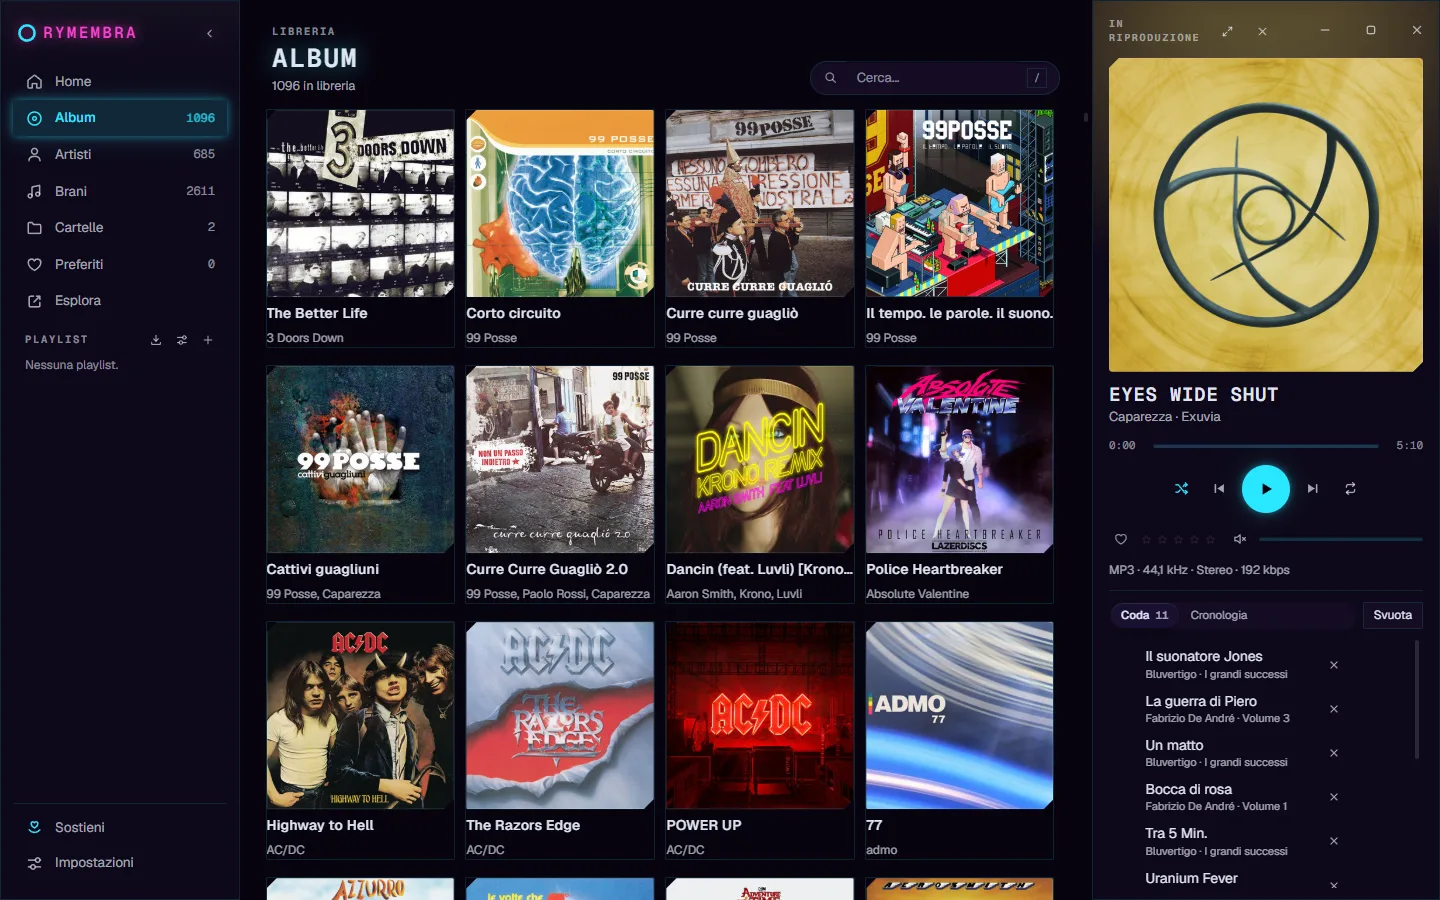
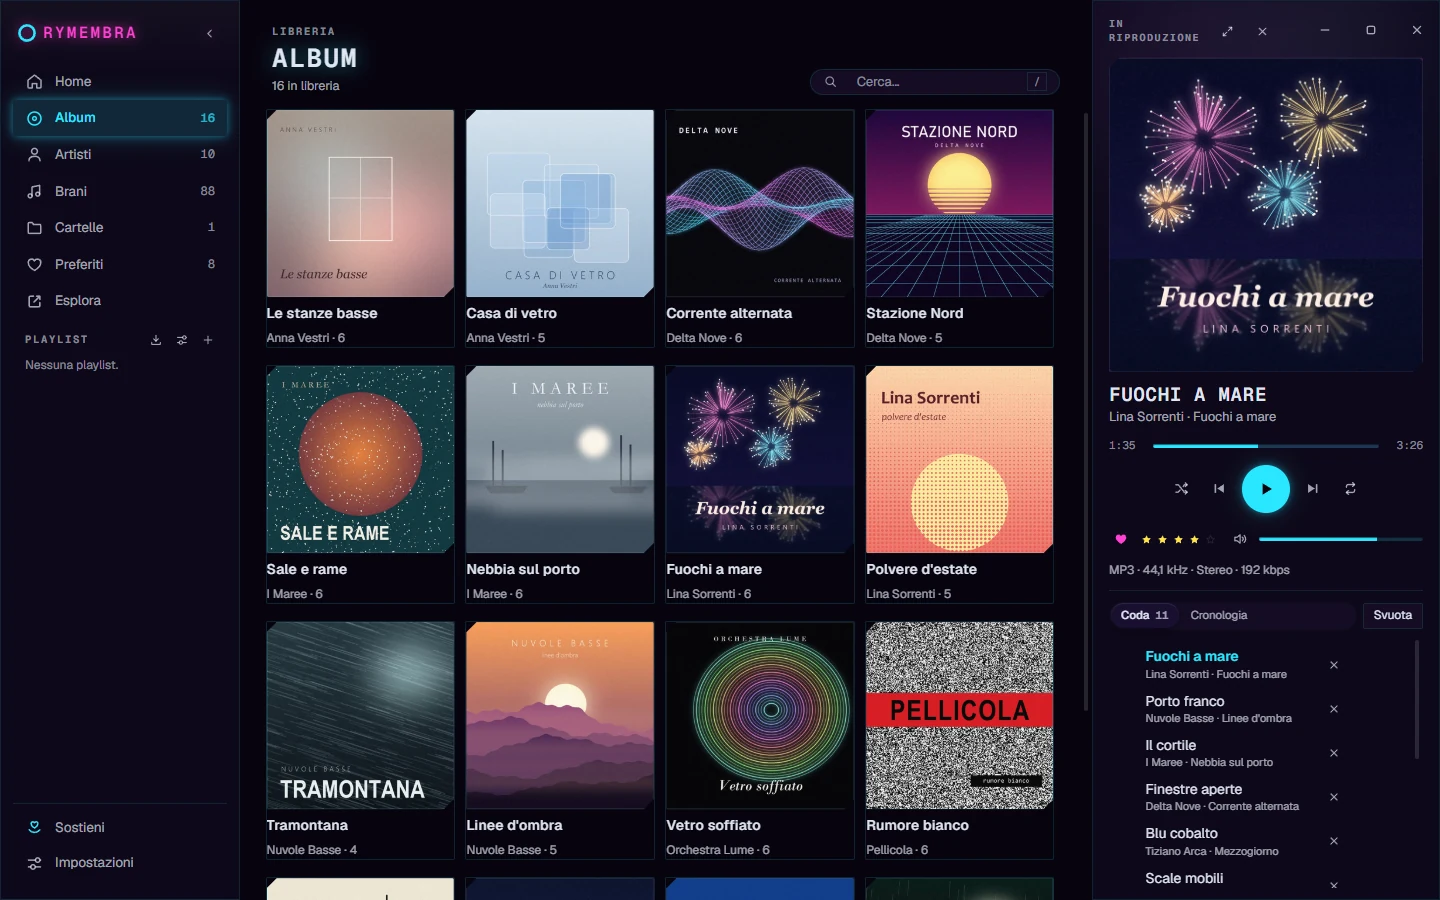
Gli screenshot con una libreria inventata
Le immagini del README e del sito mostravano una libreria vera: copertine
commerciali e titoli di altri. Adesso mostrano una libreria fatta apposta —
88 brani, 16 album e 10 artisti con nomi, copertine e audio inventati — gli
stessi dischi dello Studio (`studio/mondo.ts`), così ogni scatto racconta la
stessa libreria.

- Rifatte casa, album, skin, brani, fonti e riproduzione, dalla 3.0.2 con
  la finestra a 1440 × 900 come chiede `immagini/scatti.md`: Plain e Neon
  sulla stessa griglia, lo spettro a 128 bande su un FLAC a 24 bit.
- `site/anteprima.jpg` rifotografata da `site/anteprima.html`.
- `studio.webp` resta com'era: la libreria finta ce l'aveva già.
- Il README dice cosa si vede adesso: il brano da riprendere, quello sullo
  spettro, la riga del formato, e che la libreria è inventata.

diff --git a/README.md b/README.md
@@ -47,9 +47,10 @@ temporary limitation.
 ![Rymembra's home screen](immagini/casa.webp)
 
 The home screen. At the top, «Il lunedì» (*Monday*): this week's collections,
-twenty tracks each, worked out on this computer; the dot marks the ones that are
-new. Below, «Riprendi dov'eri» (*Resume*) brings back the last interrupted track
-at the exact point where it stopped — here *Eyes Wide Shut*, at 3:25 — and one
+up to twenty tracks each, worked out on this computer; the dot marks the ones
+that are new. Below, «Riprendi dov'eri» (*Resume*) brings back the last
+interrupted track at the exact point where it stopped — here *Fuochi a mare*, at
+1:32 — and one
 click plays it from there. Then «Ascoltati di recente» (*Recently played*);
 further down the page, out of the picture, the most recently added albums and
 the records you haven't played in a while.
@@ -64,8 +65,10 @@ history («Cronologia») and the button that empties the queue («Svuota»). The
 same column comes back in most of the pictures that follow.
 
 *The images in this document show the Italian interface — the program speaks
-English too, and the Studio picture is taken in English — and come from a real
-library of 2611 tracks, 1096 albums and 685 artists.*
+English too, and the Studio picture is taken in English — and come from a
+library made up for them: 88 tracks, 16 albums and 10 artists whose names,
+covers and sound were invented, so that no picture shows somebody else's
+music.*
 
 ---
 
@@ -302,7 +305,7 @@ come back. «Select all» selects the whole view, not what happens to be loaded.
 ![The playback screen with the spectrum analyzer](immagini/riproduzione.webp)
 
 The playback screen, «In riproduzione» (*Now playing*), with the spectrum scene
-on — here *Skirmish*, from the soundtrack of *S.T.A.L.K.E.R. 2*. The scene is a
+on — here *Porto franco*, a 24-bit FLAC. The scene is a
 grid of bars: from 8 to 1024 across — the row of numbers at the bottom left
 chooses how many, 128 here — and about fifty rows in depth. The front row is
 now; the rows behind are the last half minute of music, moving back toward the
@@ -314,7 +317,7 @@ changes to the equalization curve are visible in the bars, changes to the
 volume are not. The bands reach the interface through a ring buffer that
 discards excess samples when it is full, so as not to introduce any wait in
 the audio callback. At the bottom right, the line that says what the file is:
-«FLAC · 48 kHz · 24 bit · Stereo · 1314 kbps». The three buttons at the top
+«FLAC · 44,1 kHz · 24 bit · Stereo · 1602 kbps». The three buttons at the top
 right switch the lyrics, the spectrum and the queue on and off; «Chiudi»
 (*Close*), or Esc, closes the screen.
 
